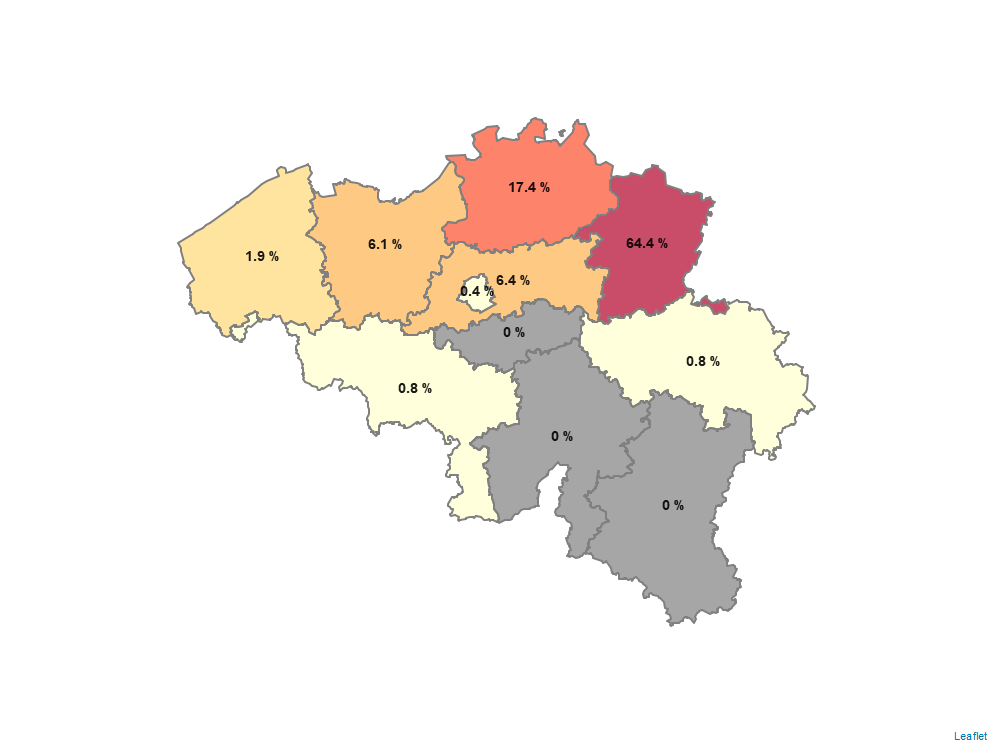
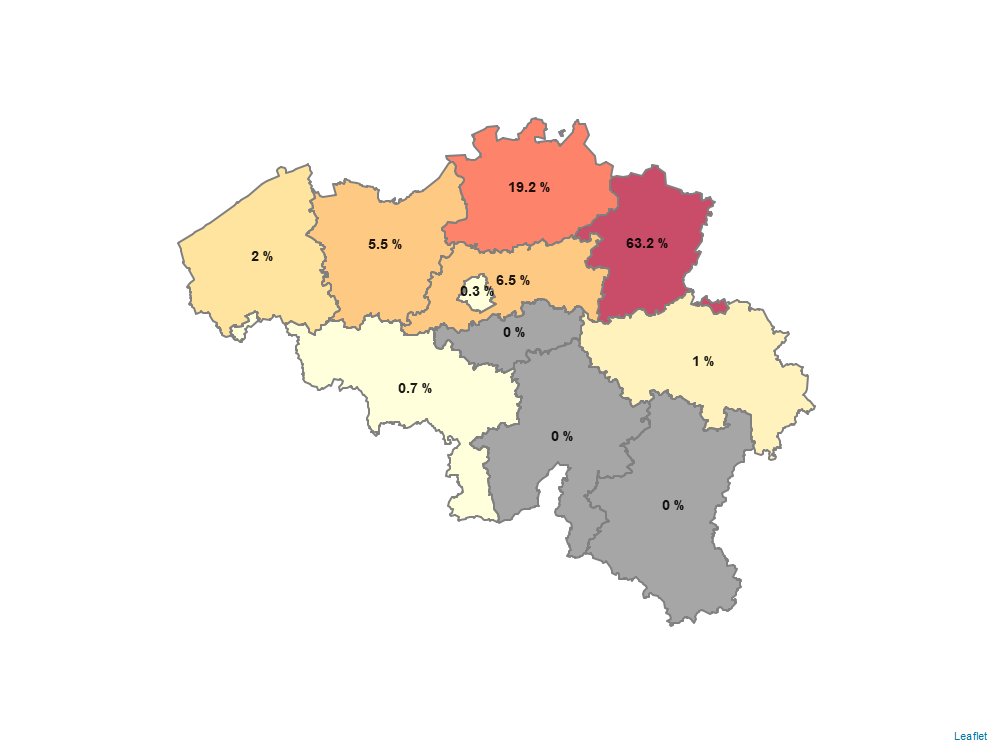
Update results

diff --git a/public/belgium/locales/nl-be/results/results-0.md b/public/belgium/locales/nl-be/results/results-0.md
@@ -1,4 +1,4 @@
-`Deze pagina is voor het laatst aangepast op 31.maart.2021 16:00.`
+`Deze pagina is voor het laatst aangepast op 02.april.2021 16:00.`
 <br />
 
 Op deze pagina vindt u de actuele resultaten van Infectieradar.
@@ -7,7 +7,7 @@ Op deze pagina vindt u de actuele resultaten van Infectieradar.
 
 ## Achtergrond Informatie
 
-Op 31 maart 2021 hadden we 264 deelnemers. 44.7% van de deelnemers is vrouw, en 55.3% is man. Een meerderheid van deelnemers (81.4%) rapporteerden dat ze nog geen Covid-19 hebben gehad. 4.2% van de deelnemers hebben in het verleden positief getest op Covid-19. 14.4% van de deelnemers hebben een sterk vermoeden dat ze Covid-19 hebben gehad.
+Op 2 april 2021 hadden we 307 deelnemers. 46.9% van de deelnemers is vrouw, en 53.1% is man. Een meerderheid van deelnemers (83.1%) rapporteerden dat ze nog geen Covid-19 hebben gehad. 3.6% van de deelnemers hebben in het verleden positief getest op Covid-19. 13.4% van de deelnemers hebben een sterk vermoeden dat ze Covid-19 hebben gehad.
 <br />
 
 ### Leeftijdsverdeling
@@ -25,7 +25,7 @@ Op 31 maart 2021 hadden we 264 deelnemers. 44.7% van de deelnemers is vrouw, en 
 
 ## Wekelijkse Symptomen
 
-Op 31 maart 2021 hadden we 219 ingevulde wekelijkse symptomen vragenlijsten van 194 deelnemers. In 63.5% van de vragenlijsten werd gerapporteerd dat er *geen symptomen* waren.
+Op 2 april 2021 hadden we 318 ingevulde wekelijkse symptomen vragenlijsten van 245 deelnemers. In 67.6% van de vragenlijsten werd gerapporteerd dat er *geen symptomen* waren.
 
 ### Gerapporteerde symptomen
 In de figuur hieronder geven we procentueel aan hoe vaak een bepaald symptoom is gerapporteerd in de vragenlijsten waarbij minstens één symptoom werd doorgegeven.

diff --git a/public/belgium/locales/fr-be/results/results-0.md b/public/belgium/locales/fr-be/results/results-0.md
@@ -1,13 +1,13 @@
-`Dernière modification de cette page le 30.mar.2021 16:00.`
+`Dernière modification de cette page le 2.apr.2021 16:00.`
 <br />
 
-Cette page vous permet de consulter les résultats actuels de l’étude proposée par Infectieradar.
+On this page you will be able to see the latest results from the data collected by Infectieradar.be.
 <br />
 
 
 ## Background Information
 
-On March 31, 2021 we had 264 participants. 44.7% of the participants are female, and 55.3% male. The majority of the participants (81.4%) reported having no previous Covid-19 episode. 4.2% of the participants had a positive Covid-19 test in the past. 14.4% of the participants think they had a previous Covid-19 episode.
+On April 2, 2021 we had 307 participants. 46.9% of the participants are female, and 53.1% male. The majority of the participants (83.1%) reported having no previous Covid-19 episode. 3.6% of the participants had a positive Covid-19 test in the past. 13.4% of the participants think they had a previous Covid-19 episode.
 <br />
 
 ### Age distribution
@@ -25,7 +25,7 @@ On March 31, 2021 we had 264 participants. 44.7% of the participants are female,
 
 ## Weekly Symptoms
 
-On March 31, 2021 we had 219 completed weekly symptom questionnaires from 194 participants. In 63.5% of the symptom questionnaires it was reported that there were *no symptoms*.
+On April 2, 2021 we had 318 completed weekly symptom questionnaires from 245 participants. In 67.6% of the symptom questionnaires it was reported that there were *no symptoms*.
 
 ### Reported symptoms
 

diff --git a/public/belgium/locales/de-be/results/results-0.md b/public/belgium/locales/de-be/results/results-0.md
@@ -1,13 +1,13 @@
-`Diese Seite wurde zum letzten Mal angepasst am 31.mar.2021 16:00.`
+`Diese Seite wurde zum letzten Mal angepasst am 02.apr.2021 16:00.`
 <br />
 
-Auf dieser Seite finden Sie die aktuellen Ergebnisse von Infectieradar.
+On this page you will be able to see the latest results from the data collected by Infectieradar.be.
 <br />
 
 
 ## Background Information
 
-On March 31, 2021 we had 264 participants. 44.7% of the participants are female, and 55.3% male. The majority of the participants (81.4%) reported having no previous Covid-19 episode. 4.2% of the participants had a positive Covid-19 test in the past. 14.4% of the participants think they had a previous Covid-19 episode.
+On April 2, 2021 we had 307 participants. 46.9% of the participants are female, and 53.1% male. The majority of the participants (83.1%) reported having no previous Covid-19 episode. 3.6% of the participants had a positive Covid-19 test in the past. 13.4% of the participants think they had a previous Covid-19 episode.
 <br />
 
 ### Age distribution
@@ -25,7 +25,7 @@ On March 31, 2021 we had 264 participants. 44.7% of the participants are female,
 
 ## Weekly Symptoms
 
-On March 31, 2021 we had 219 completed weekly symptom questionnaires from 194 participants. In 63.5% of the symptom questionnaires it was reported that there were *no symptoms*.
+On April 2, 2021 we had 318 completed weekly symptom questionnaires from 245 participants. In 67.6% of the symptom questionnaires it was reported that there were *no symptoms*.
 
 ### Reported symptoms
 

diff --git a/public/belgium/locales/en/results/results-0.md b/public/belgium/locales/en/results/results-0.md
@@ -1,4 +1,4 @@
-`This page has been last updated at 31.mar.2021 16:00.`
+`This page has been last updated at 02.apr.2021 16:00.`
 <br />
 
 On this page you will be able to see the latest results from the data collected by Infectieradar.be.
@@ -7,7 +7,7 @@ On this page you will be able to see the latest results from the data collected 
 
 ## Background Information
 
-On March 31, 2021 we had 264 participants. 44.7% of the participants are female, and 55.3% male. The majority of the participants (81.4%) reported having no previous Covid-19 episode. 4.2% of the participants had a positive Covid-19 test in the past. 14.4% of the participants think they had a previous Covid-19 episode.
+On April 2, 2021 we had 307 participants. 46.9% of the participants are female, and 53.1% male. The majority of the participants (83.1%) reported having no previous Covid-19 episode. 3.6% of the participants had a positive Covid-19 test in the past. 13.4% of the participants think they had a previous Covid-19 episode.
 <br />
 
 ### Age distribution
@@ -25,7 +25,7 @@ On March 31, 2021 we had 264 participants. 44.7% of the participants are female,
 
 ## Weekly Symptoms
 
-On March 31, 2021 we had 219 completed weekly symptom questionnaires from 194 participants. In 63.5% of the symptom questionnaires it was reported that there were *no symptoms*.
+On April 2, 2021 we had 318 completed weekly symptom questionnaires from 245 participants. In 67.6% of the symptom questionnaires it was reported that there were *no symptoms*.
 
 ### Reported symptoms
 
